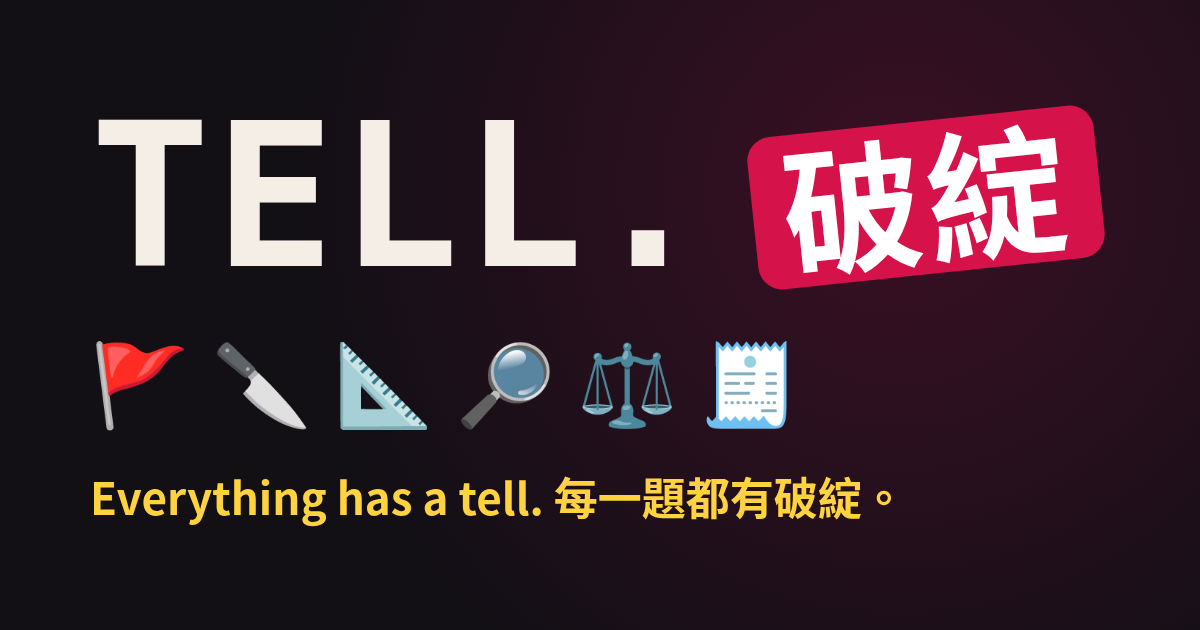
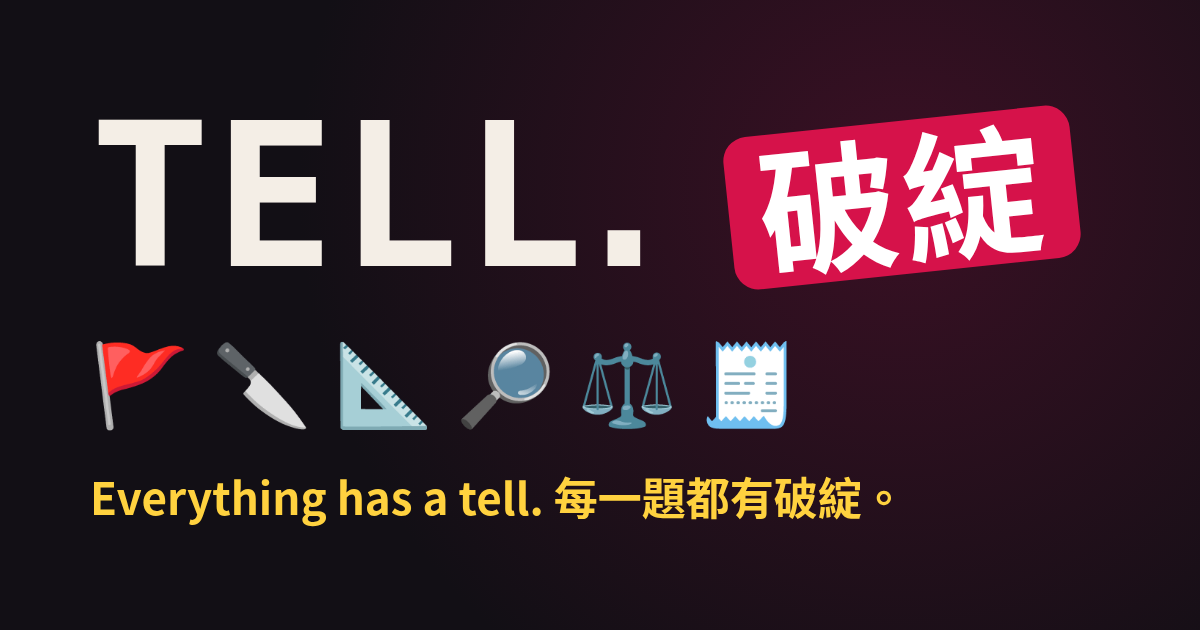
TELL. wordmark: tighten the period; OG image

Changed region(s): [[0.5858, 0.1508, 0.925, 0.4825], [0.4933, 0.3619, 0.555, 0.4222]]

diff --git a/index.html b/index.html
@@ -10,18 +10,18 @@
 <meta property="og:title" content="TELL. 破綻"><meta property="og:description" content="Everything has a tell. Six games, one Daily Mix. Spot it. 每一題都有破綻。">
 <meta property="og:image" content="https://liyun-li.github.io/tell/og.png"><meta property="og:image:width" content="1200"><meta property="og:image:height" content="630"><meta property="og:image:alt" content="TELL. 破綻: everything has a tell.">
 <meta name="twitter:card" content="summary_large_image"><meta name="twitter:image" content="https://liyun-li.github.io/tell/og.png">
-<link rel="stylesheet" href="core/hub.css?v=2611040131">
+<link rel="stylesheet" href="core/hub.css?v=2611040134">
 </head><body>
 <main class="app">
 <header class="top">
- <h1 class="h1"><button class="logo" id="logo" type="button" aria-label="TELL. 破綻 home"><span>TELL.</span><b>破綻</b></button></h1>
+ <h1 class="h1"><button class="logo" id="logo" type="button" aria-label="TELL. 破綻 home"><span>TELL<i class="dot">.</i></span><b>破綻</b></button></h1>
  <span class="pill" id="hud" aria-live="polite"></span>
  <button class="lang" id="langBtn" type="button" aria-label="EN 中 · Language / 語言"><span id="lEn" lang="en">EN</span><span id="lZh" lang="zh-Hant">中</span></button>
 </header>
 <div class="bar" aria-hidden="true"><div id="prog"></div></div>
 
 <section class="screen on" id="home" aria-labelledby="bigT">
- <h2 class="big" id="bigT"><span>TELL.</span><b>破綻</b></h2>
+ <h2 class="big" id="bigT"><span>TELL<i class="dot">.</i></span><b>破綻</b></h2>
  <p class="sub" id="tag"></p>
  <div class="modes">
   <button class="cta" id="dailyBtn" type="button"></button>
@@ -52,5 +52,5 @@
 </section>
 <p class="foot" id="foot"><span id="footT"></span> · <a href="about.html" id="aboutL"></a></p>
 </main>
-<script type="module" src="core/app.js?v=2611040131"></script>
+<script type="module" src="core/app.js?v=2611040134"></script>
 </body></html>

diff --git a/core/app.js b/core/app.js
@@ -1,6 +1,6 @@
 // TELL. / 破綻 — hub app. Modules live in ../modules/<id>/mod.js (see CONTRACT.md).
 import * as E from './engine.js';
-import SHIP from './ship.js?v=2611040131';
+import SHIP from './ship.js?v=2611040134';
 const V=new URL(import.meta.url).searchParams.get('v')||'0';
 const QS=new URLSearchParams(location.search);
 const LOCAL=/^(localhost|127\.|0\.0\.0\.0|\[::1\])/.test(location.hostname);

diff --git a/core/hub.css b/core/hub.css
@@ -83,3 +83,4 @@ a{color:#9fd0ff}
  #end .rank,#end .streak{display:none}}
 /* glue (see NOTES.md): bold the big verdict buttons so their module colours pass WCAG large-text contrast */
 #stage .m-sos .g,#stage .m-cozy .g{font-weight:800}
+.top .logo .dot,#home .big .dot{font-style:normal;margin-left:-.32em}
